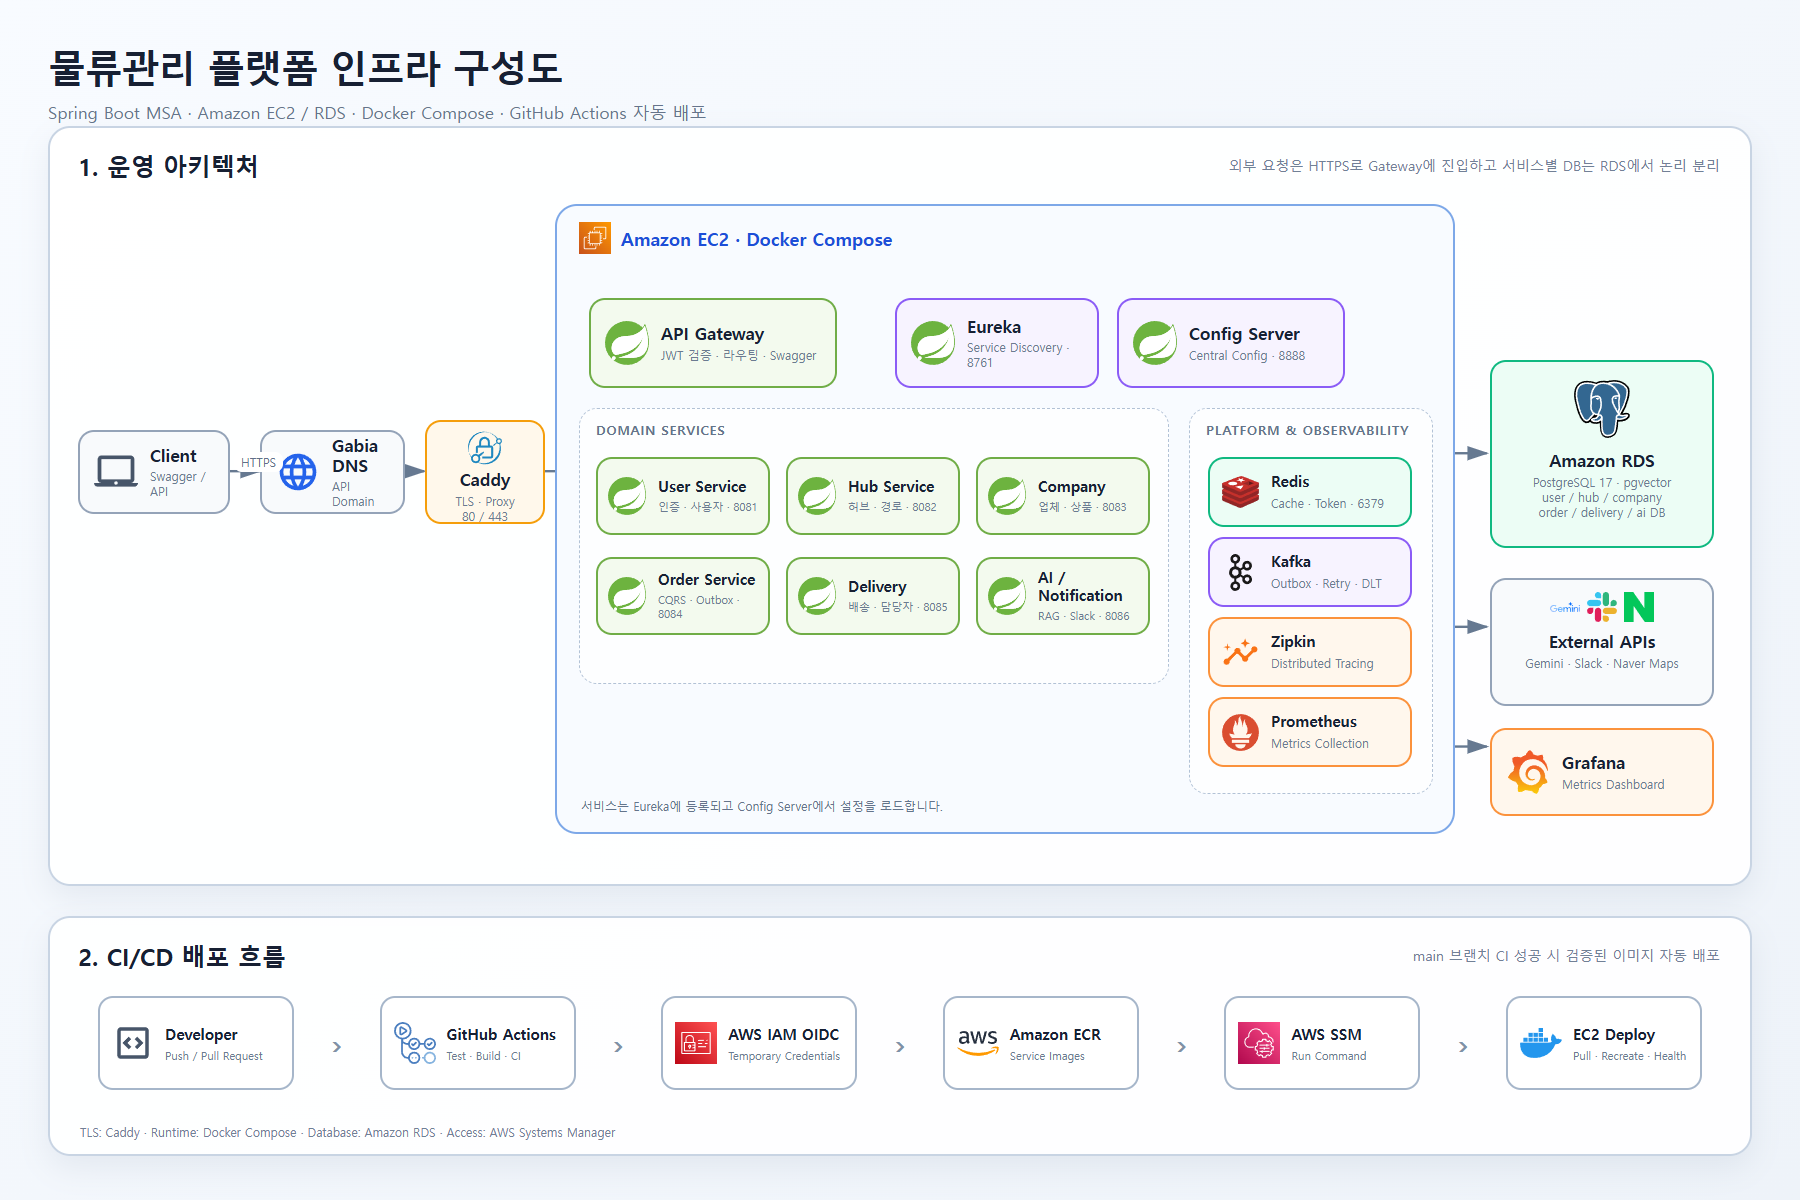
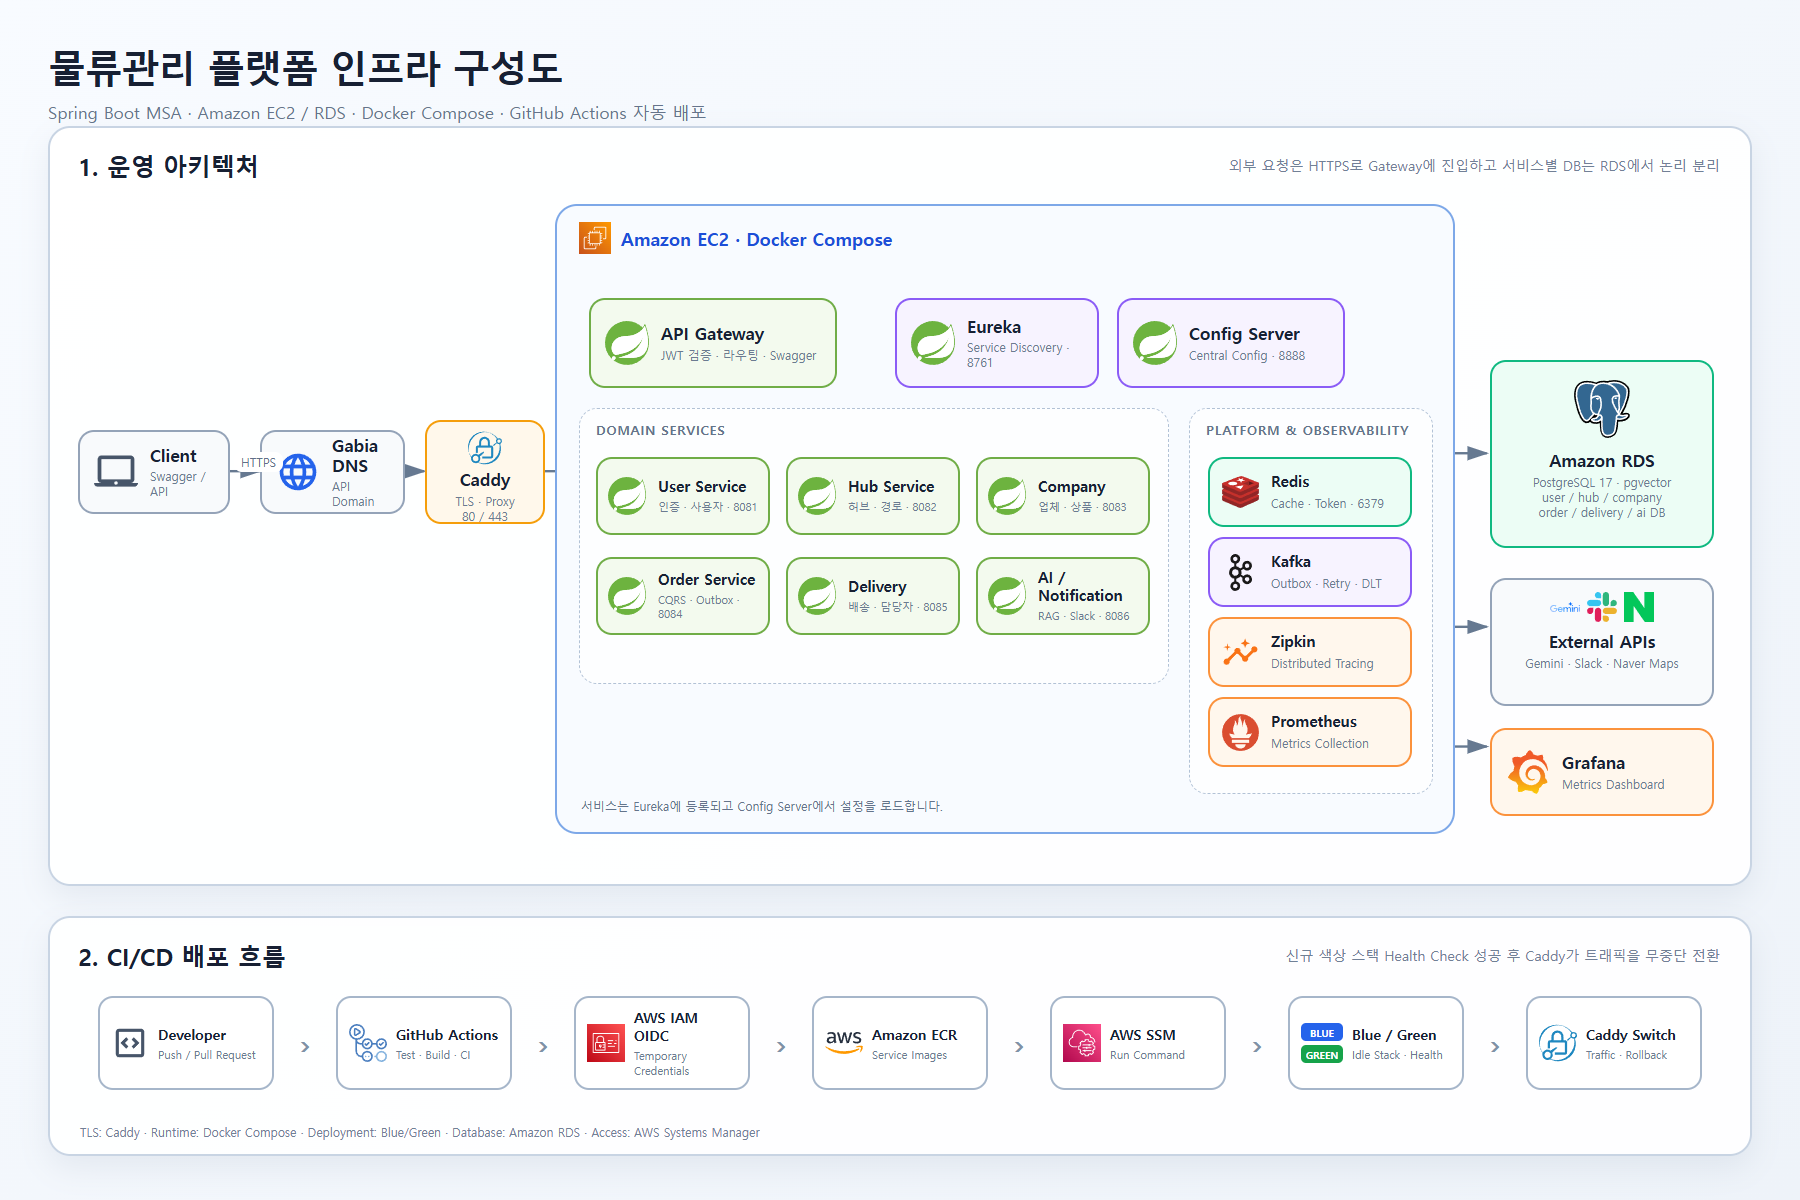
리드미 수정

diff --git a/docs/infrastructure-diagram-icons.html b/docs/infrastructure-diagram-icons.html
@@ -47,10 +47,14 @@
     .flow { fill: none; stroke: #667991; stroke-width: 2.4; marker-end: url(#arrow); }
     .dash { stroke-dasharray: 8 7; }
     .pipe-row { position: absolute; left: 48px; right: 48px; top: 78px; display: flex; align-items: center; justify-content: space-between; }
-    .pipe-node { width: 196px; height: 94px; border: 2px solid #a6b6ca; border-radius: 15px; background: #fff; display: flex; align-items: center; padding: 12px; gap: 11px; }
-    .pipe-node img { width: 42px; height: 42px; object-fit: contain; }
-    .pipe-node .name { font-size: 15px; font-weight: 800; }
+    .pipe-node { width: 176px; height: 94px; border: 2px solid #a6b6ca; border-radius: 15px; background: #fff; display: flex; align-items: center; padding: 11px; gap: 9px; }
+    .pipe-node img { width: 38px; height: 38px; object-fit: contain; }
+    .pipe-node .name { font-size: 14px; font-weight: 800; }
     .pipe-node .desc { font-size: 11px; color: #6b7b91; margin-top: 4px; }
+    .bg-icon { width: 42px; display: flex; flex-direction: column; gap: 4px; flex: 0 0 auto; }
+    .slot { height: 18px; border-radius: 5px; color: #fff; font-size: 10px; font-weight: 900; display: grid; place-items: center; }
+    .slot.blue { background: #2563eb; }
+    .slot.green { background: #16a34a; }
     .chev { font-size: 28px; font-weight: 900; color: #8091a7; }
     .brand-note { position: absolute; bottom: 14px; left: 30px; color: #718096; font-size: 12px; }
   </style>
@@ -118,16 +122,17 @@
 
   <section class="panel pipeline">
     <div class="panel-title">2. CI/CD 배포 흐름</div>
-    <div class="panel-note">main 브랜치 CI 성공 시 검증된 이미지 자동 배포</div>
+    <div class="panel-note">신규 색상 스택 Health Check 성공 후 Caddy가 트래픽을 무중단 전환</div>
     <div class="pipe-row">
       <div class="pipe-node"><img src="https://api.iconify.design/material-symbols/code-blocks-outline.svg?color=%23475569"><div><div class="name">Developer</div><div class="desc">Push / Pull Request</div></div></div><span class="chev">›</span>
       <div class="pipe-node"><img src="https://api.iconify.design/logos/github-actions.svg"><div><div class="name">GitHub Actions</div><div class="desc">Test · Build · CI</div></div></div><span class="chev">›</span>
       <div class="pipe-node"><img src="https://api.iconify.design/logos/aws-iam.svg"><div><div class="name">AWS IAM OIDC</div><div class="desc">Temporary Credentials</div></div></div><span class="chev">›</span>
       <div class="pipe-node"><img src="https://api.iconify.design/logos/aws.svg"><div><div class="name">Amazon ECR</div><div class="desc">Service Images</div></div></div><span class="chev">›</span>
       <div class="pipe-node"><img src="https://api.iconify.design/logos/aws-systems-manager.svg"><div><div class="name">AWS SSM</div><div class="desc">Run Command</div></div></div><span class="chev">›</span>
-      <div class="pipe-node"><img src="https://api.iconify.design/logos/docker-icon.svg"><div><div class="name">EC2 Deploy</div><div class="desc">Pull · Recreate · Health</div></div></div>
+      <div class="pipe-node"><div class="bg-icon"><span class="slot blue">BLUE</span><span class="slot green">GREEN</span></div><div><div class="name">Blue / Green</div><div class="desc">Idle Stack · Health</div></div></div><span class="chev">›</span>
+      <div class="pipe-node"><img src="https://api.iconify.design/simple-icons/caddy.svg?color=%231f88c0"><div><div class="name">Caddy Switch</div><div class="desc">Traffic · Rollback</div></div></div>
     </div>
-    <div class="brand-note">TLS: Caddy · Runtime: Docker Compose · Database: Amazon RDS · Access: AWS Systems Manager</div>
+    <div class="brand-note">TLS: Caddy · Runtime: Docker Compose · Deployment: Blue/Green · Database: Amazon RDS · Access: AWS Systems Manager</div>
   </section>
 </main>
 </body>
